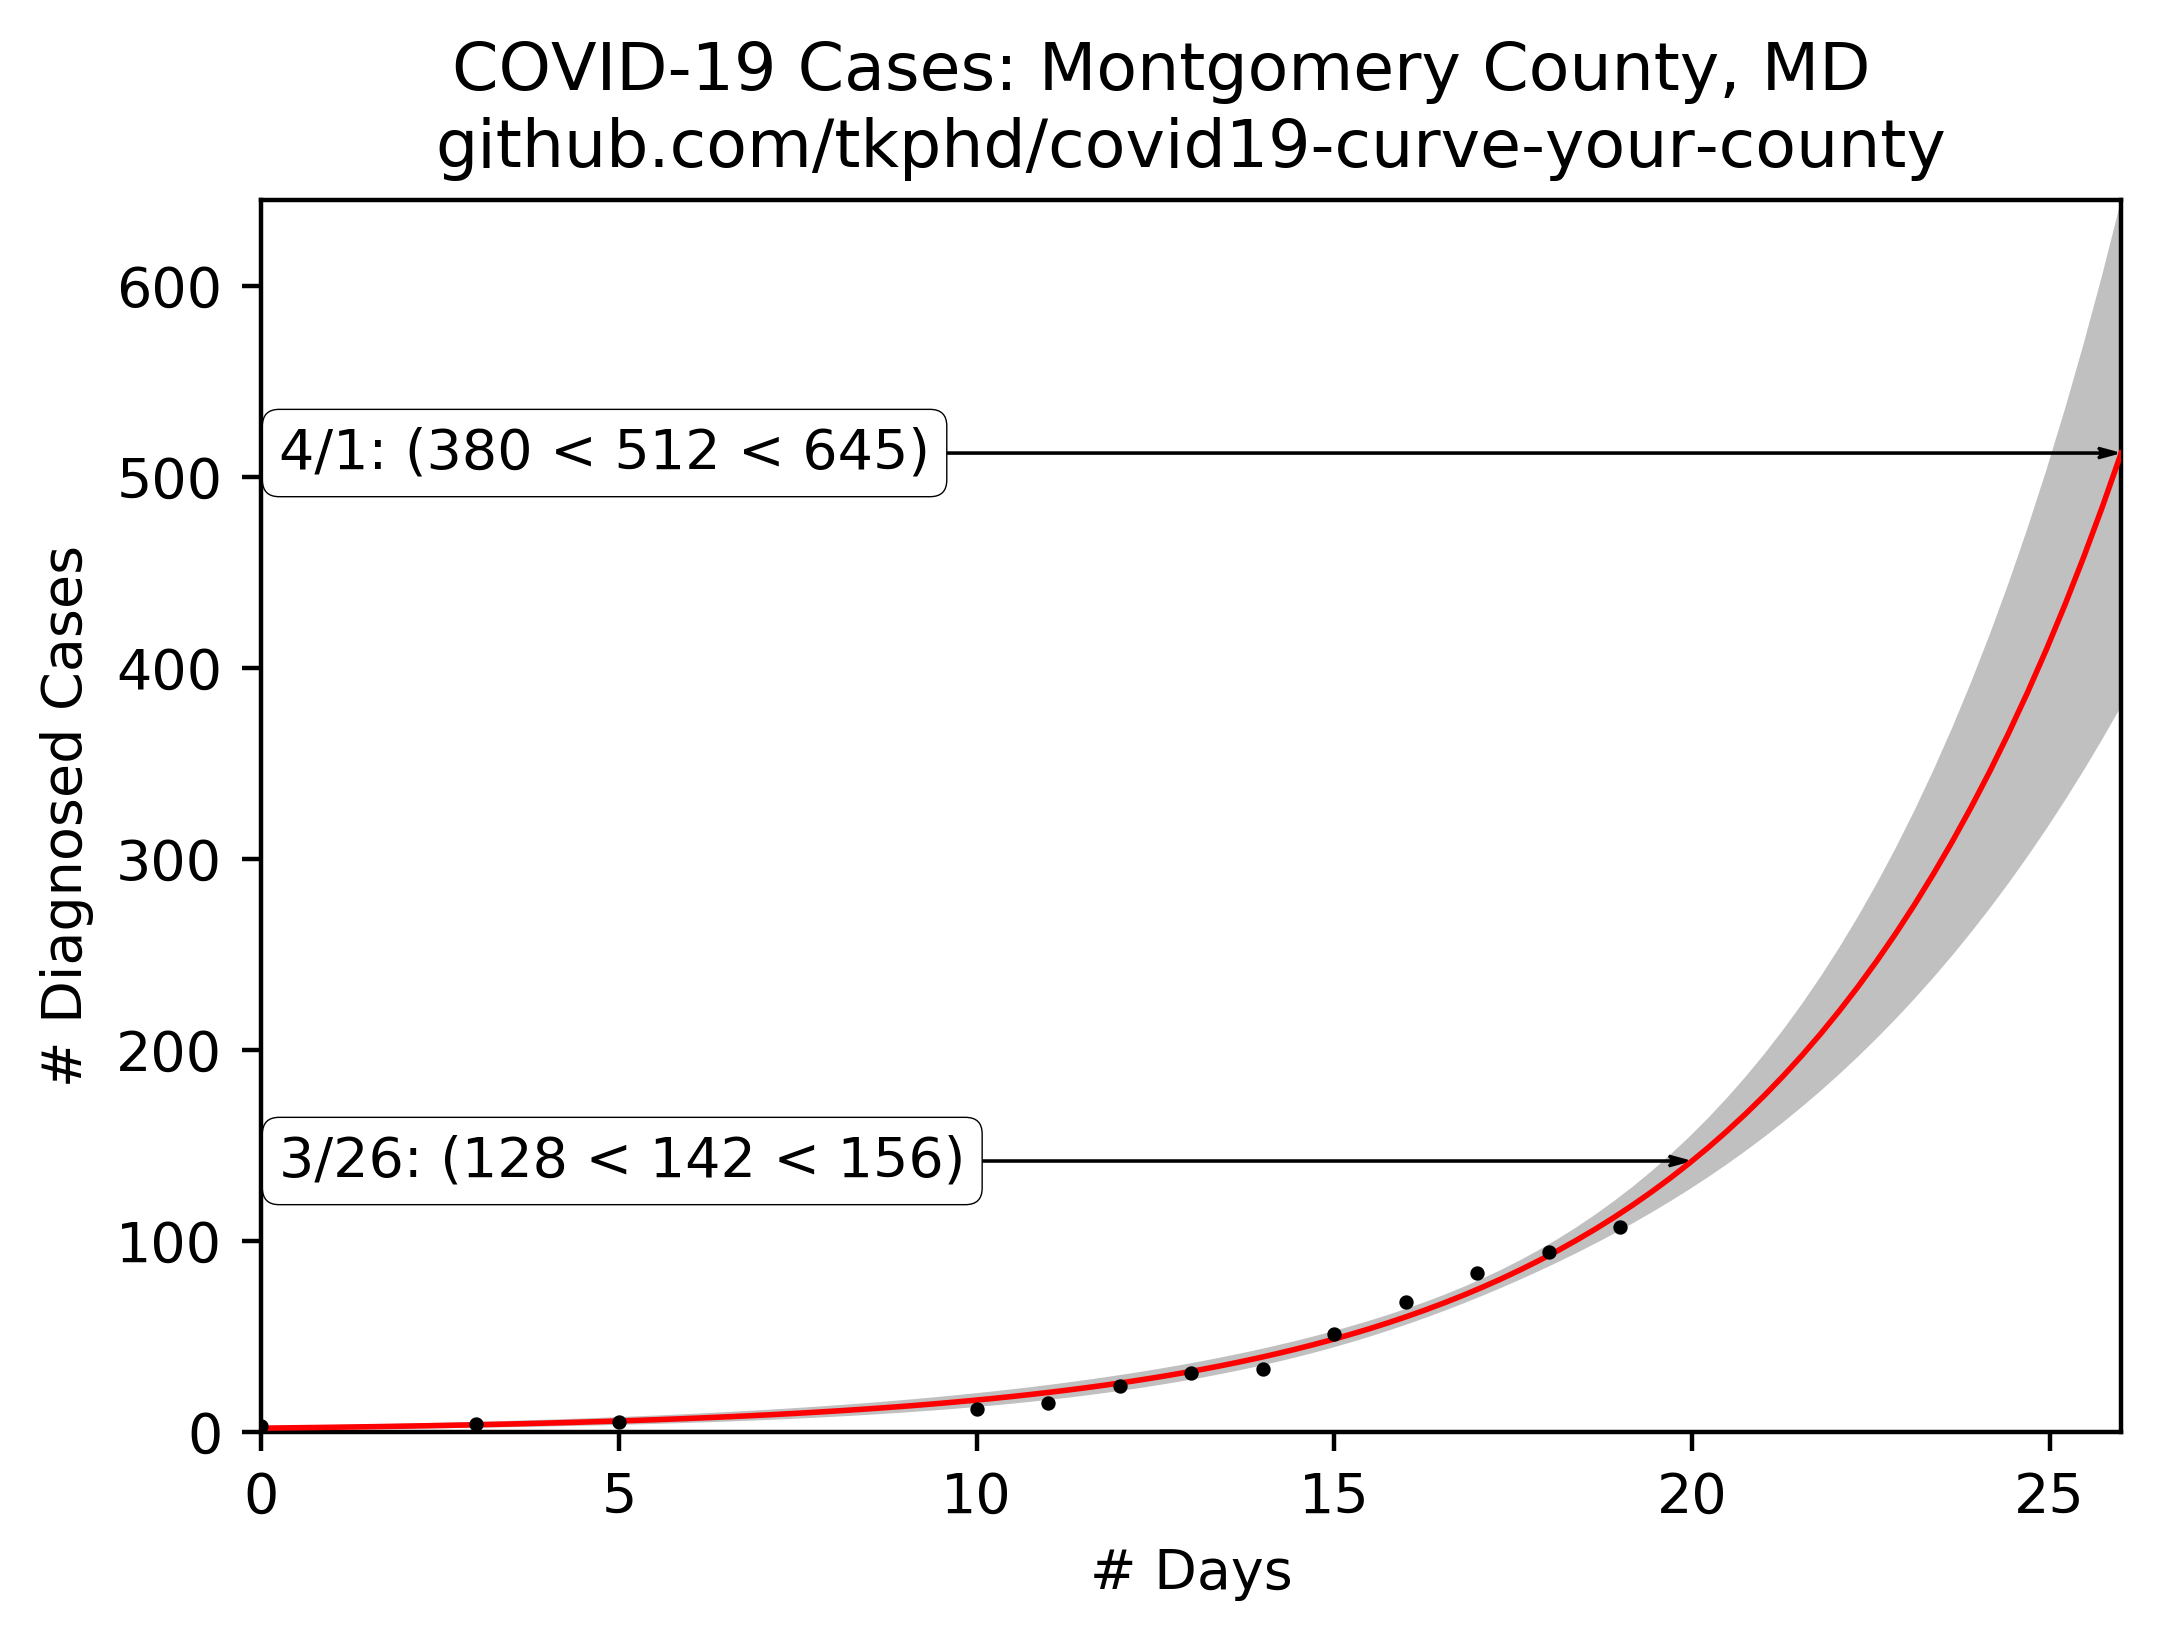
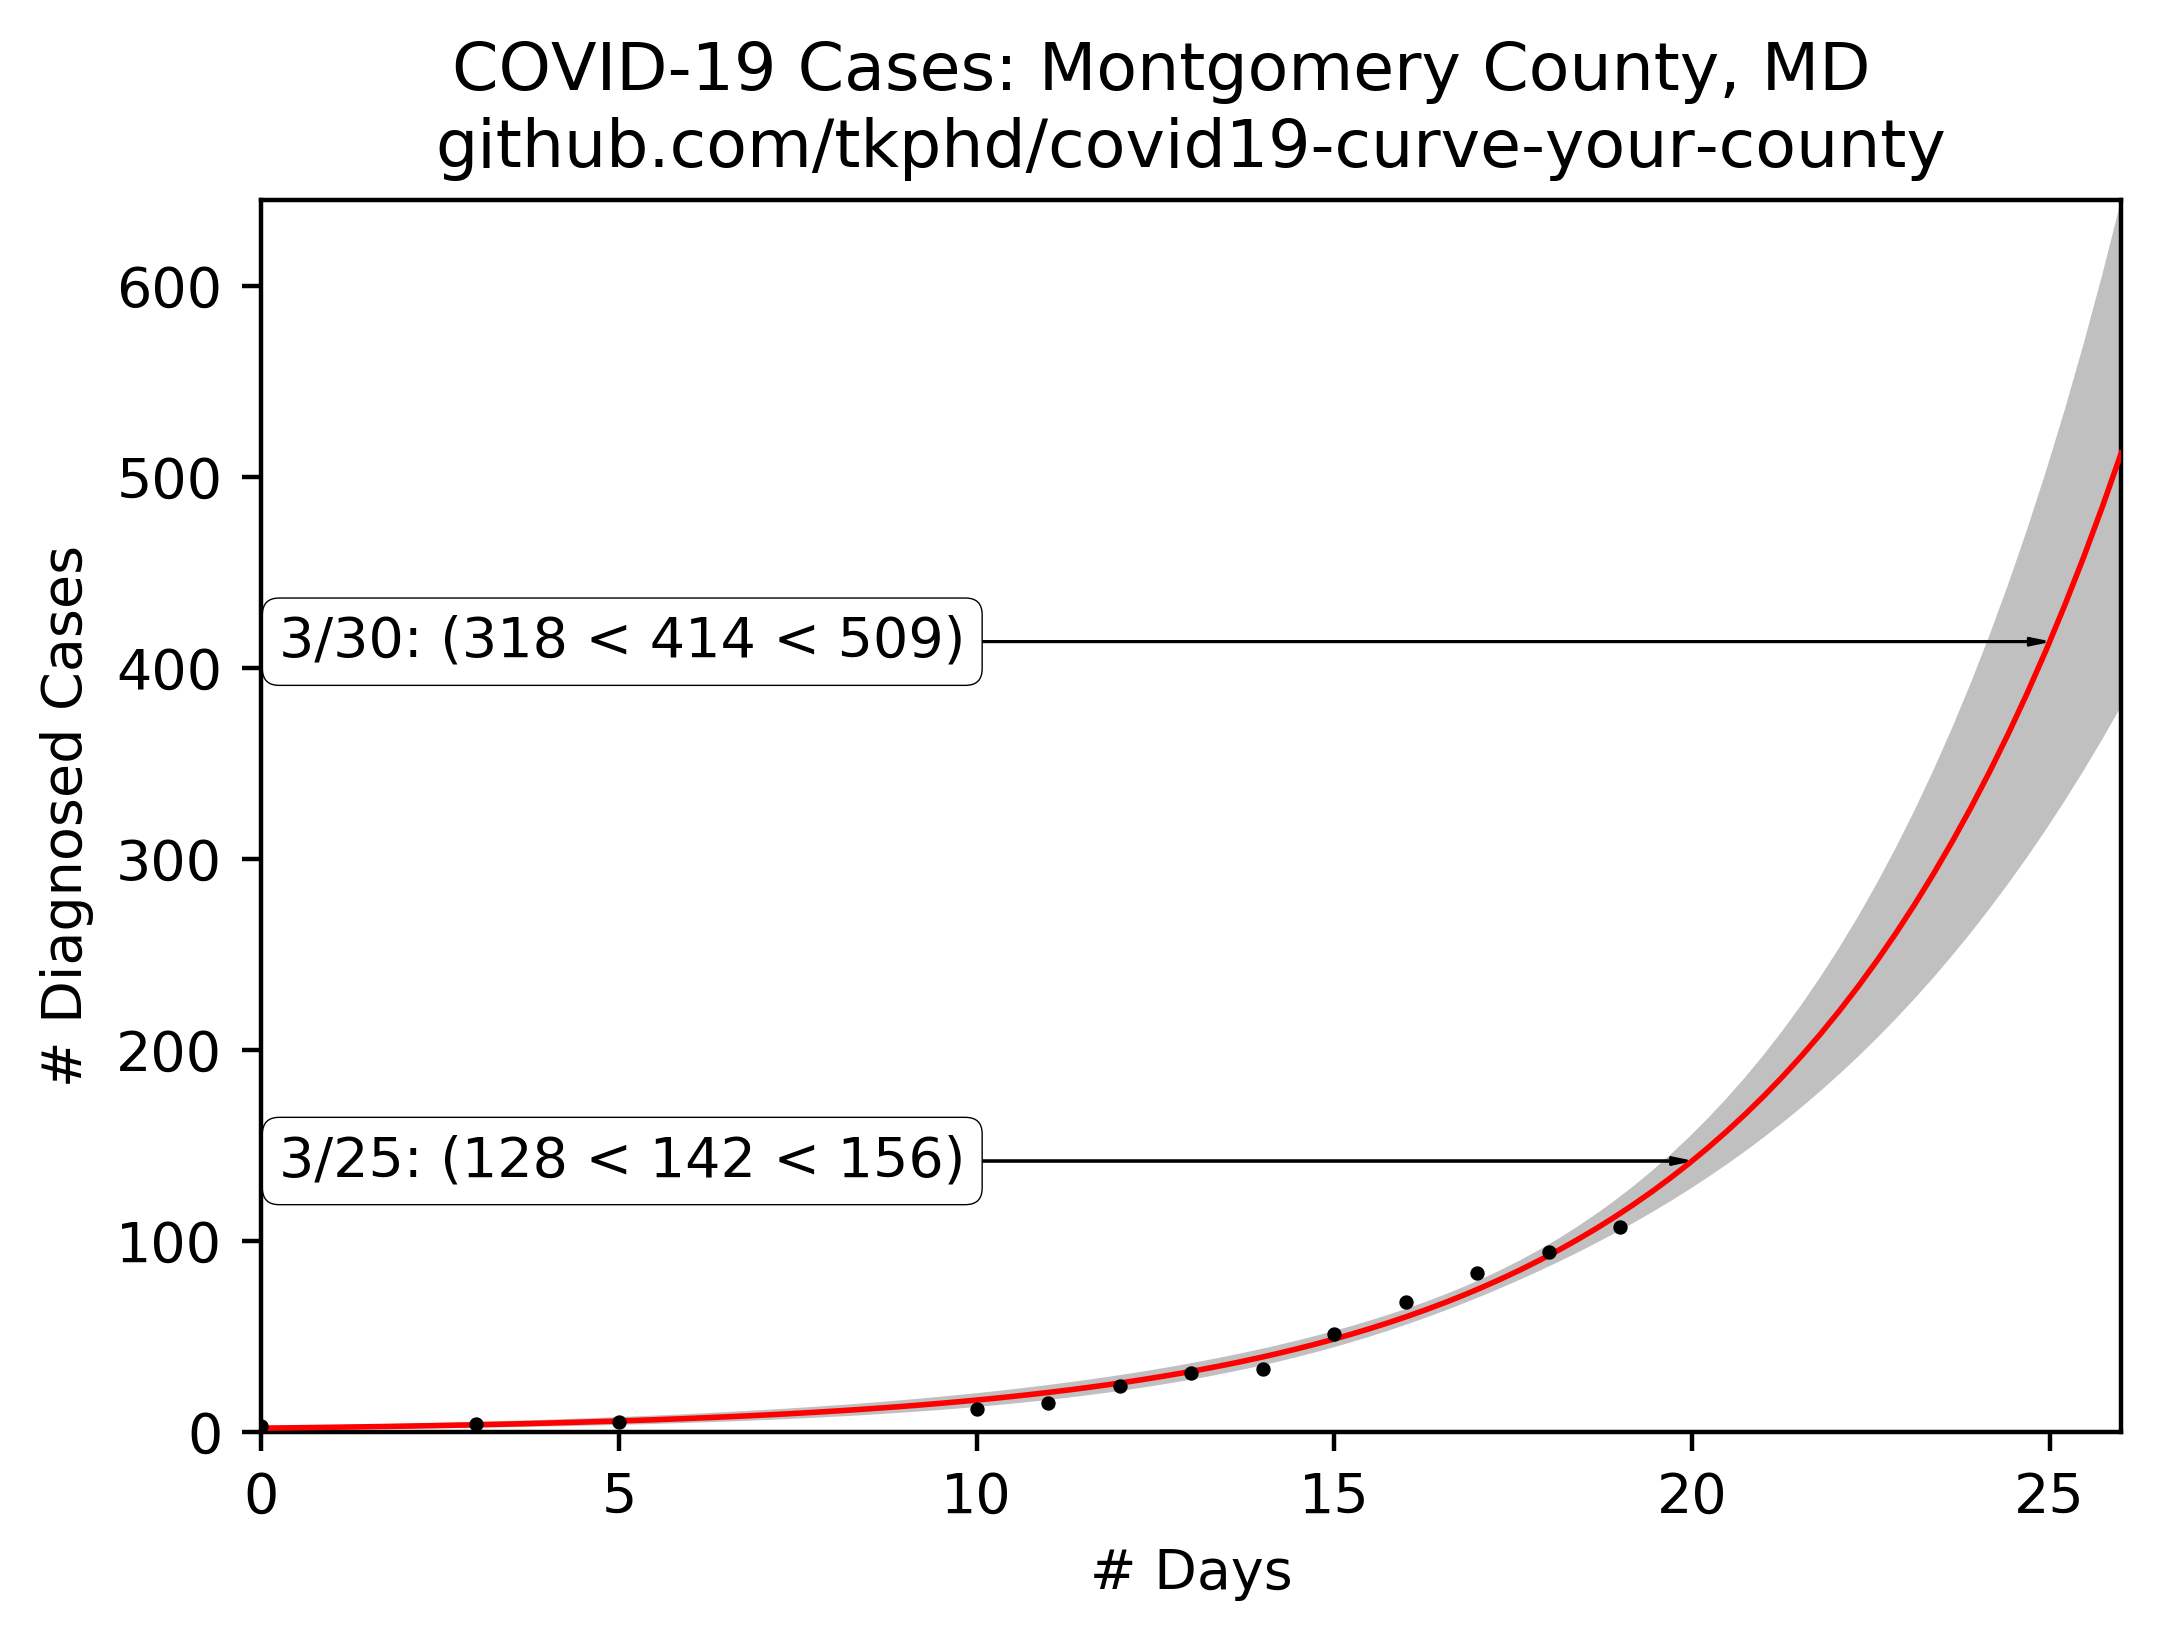
fix label offset due to improper ordinal days

Changed region(s): [[0.124, 0.2486, 0.4341, 0.3108], [0.124, 0.3729, 0.4651, 0.404], [0.155, 0.6837, 0.186, 0.7148]]

diff --git a/exponential.py b/exponential.py
@@ -23,14 +23,18 @@ plt.ylabel("# Diagnosed Cases")
 # Data
 
 df = pd.read_csv("us_md_montgomery.csv")
+print(df)
 
 y = np.array(df["diagnosed"])
-start = strptime(df["date"].iloc[0], "%Y-%m-%d").tm_yday
-today = strptime(df["date"].iloc[-1], "%Y-%m-%d").tm_yday
+start = strptime(df["date"].iloc[0], "%Y-%m-%d")
+start = date(start.tm_year, start.tm_mon, start.tm_mday).toordinal()
+today = strptime(df["date"].iloc[-1], "%Y-%m-%d")
+today = date(today.tm_year, today.tm_mon, today.tm_mday).toordinal()
 
 x = np.zeros_like(y)
 for i in range(len(x)):
-    x[i] = strptime(df["date"].iloc[i], "%Y-%m-%d").tm_yday - start
+    day = strptime(df["date"].iloc[i], "%Y-%m-%d")
+    x[i] = date(day.tm_year, day.tm_mon, day.tm_mday).toordinal() - start
 
 plt.scatter(x, y, marker=".", s=10, color="k", zorder=10)
 
@@ -65,7 +69,7 @@ plt.ylim([0, upper[-1]])
 # Predictions
 
 tomorrow = date.fromordinal(today + 1)
-nextWeek = date.fromordinal(today + 7)
+nextWeek = date.fromordinal(today + 6)
 
 xhat = np.array([tomorrow.toordinal() - start, nextWeek.toordinal() - start])
 dfdp = [(1 + b) ** xhat, (a * xhat * (1 + b) ** xhat) / (1 + b)]
